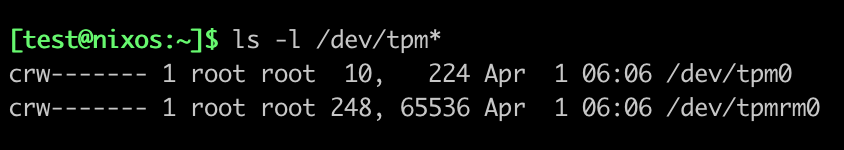
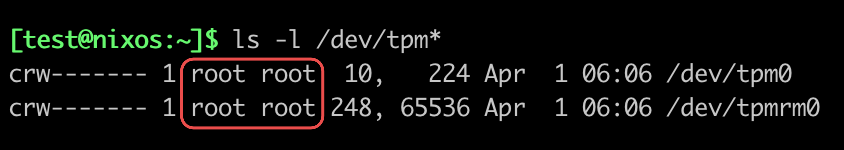
chore: little small improvements
Notes:
  - add `-f` to each `rm` command (better user experience)
  - improve some images

Changed region(s): [[0.2156, 0.3733, 0.4005, 0.88]]

diff --git a/pills/05-perform-crypto-with-asymetric-keys.md b/pills/05-perform-crypto-with-asymetric-keys.md
@@ -91,7 +91,7 @@ go run github.com/loicsikidi/tpm-pills/examples/05-pill decrypt --public ./tpmke
 
 # clean up
 go run github.com/loicsikidi/tpm-pills/examples/05-pill cleanup
-rm ./tpmkey.pub ./tpmkey.priv ./public.pem ./blob.enc
+rm -f ./tpmkey.pub ./tpmkey.priv ./public.pem ./blob.enc
 ```
 
 Under the hood, the command looks like this:
@@ -149,6 +149,10 @@ go run github.com/loicsikidi/tpm-pills/examples/05-pill verify --key ./public.pe
 # Alternatively, you can use the `openssl` command to verify the signature
 openssl dgst -sha256 -verify ./public.pem -signature ./message.sig <(echo -n 'Hello TPM Pills!')
 # output: Verified OK
+
+# clean up
+go run github.com/loicsikidi/tpm-pills/examples/05-pill cleanup
+rm -f ./tpmkey.pub ./tpmkey.priv ./public.pem ./message.sig
 ```
 
 <div class="info">
@@ -241,7 +245,7 @@ openssl dgst -sha256 -verify ./public.pem -signature ./message.sig <(echo -n 'He
 
 # Clean up
 go run github.com/loicsikidi/tpm-pills/examples/05-pill cleanup
-rm ./tpmkey.pub ./tpmkey.priv ./public.pem ./message.sig
+rm -f ./tpmkey.pub ./tpmkey.priv ./public.pem ./message.sig
 ```
 
 ## Conclusion

diff --git a/examples/05-pill/README.md b/examples/05-pill/README.md
@@ -46,7 +46,7 @@ go run github.com/loicsikidi/tpm-pills/examples/05-pill decrypt --public ./tpmke
 go run github.com/loicsikidi/tpm-pills/examples/05-pill cleanup
 
 # remove created files
-rm ./tpmkey.pub ./tpmkey.priv ./public.pem ./blob.enc
+rm -f ./tpmkey.pub ./tpmkey.priv ./public.pem ./blob.enc
 ```
 
 ### Sign/Verify a message with a non restricted signing key
@@ -75,7 +75,7 @@ openssl dgst -sha256 -verify ./public.pem -signature ./message.sig <(echo -n 'He
 go run github.com/loicsikidi/tpm-pills/examples/05-pill cleanup
 
 # remove created files
-rm ./tpmkey.pub ./tpmkey.priv ./public.pem ./message.sig
+rm -f ./tpmkey.pub ./tpmkey.priv ./public.pem ./message.sig
 ```
 
 ### Sign/Verify a message with a restricted signing key
@@ -104,7 +104,7 @@ openssl dgst -sha256 -verify ./public.pem -signature ./message.sig <(echo -n 'He
 go run github.com/loicsikidi/tpm-pills/examples/05-pill cleanup
 
 # remove created files
-rm ./tpmkey.pub ./tpmkey.priv ./public.pem ./message.sig
+rm -f ./tpmkey.pub ./tpmkey.priv ./public.pem ./message.sig
 ```
 
 ## Run tests

diff --git a/pills/04-create-a-tpm-key.md b/pills/04-create-a-tpm-key.md
@@ -284,7 +284,7 @@ go run github.com/loicsikidi/tpm-pills/examples/04-pill cleanup
 # output: State cleaned successfully 🚀
 
 # remove created files
-rm ./tpmkey.pub ./tpmkey.priv
+rm -f ./tpmkey.pub ./tpmkey.priv
 ```
 
 > *Note: by default, the example uses [swtpm](https://github.com/stefanberger/swtpm) as a TPM simulator. If you want to use a real TPM, you can specify the `--use-real-tpm` flag.*
